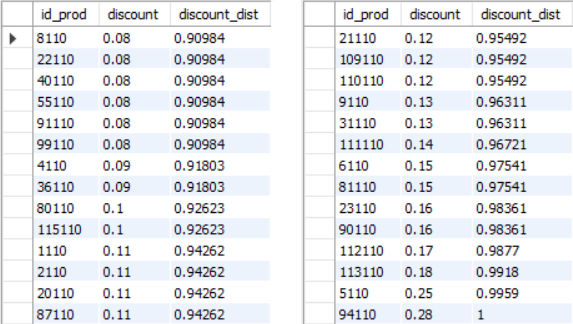
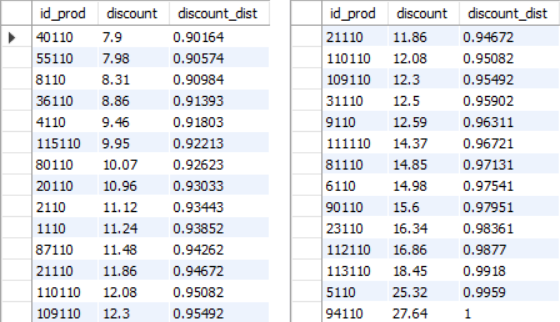
p8

diff --git a/content/project/project8/index.md b/content/project/project8/index.md
@@ -302,13 +302,13 @@ where the official and offer prices first need to be averaged for each product l
 ```mysql
 -- Find those products (id_prod) with discounts that exceed the value that falls below the 90% of all discounts
 with table_discount as(
-	select *, round((official_price_avg - offer_price_avg) / official_price_avg, 2) as discount
-	from(select id_prod, avg(official_price) as official_price_avg, avg(offer_price) as offer_price_avg
-		 from sales_agr
-		 group by id_prod) as subquery_avg_price)
+  select *, (official_price_avg - offer_price_avg) / official_price_avg as discount
+  from(select id_prod, avg(official_price) as official_price_avg, avg(offer_price) as offer_price_avg
+       from sales_agr
+       group by id_prod) as subquery_avg_price)
 select *
-from (select id_prod, discount, round(cume_dist() over(order by discount), 5) as discount_dist
-	 from table_discount) as subquery_dist
+from (select id_prod, round(discount*100, 2) as discount, round(cume_dist() over(order by discount), 5) as discount_dist
+      from table_discount) as subquery_dist
 where discount_dist >= 0.9;
 ```
 
